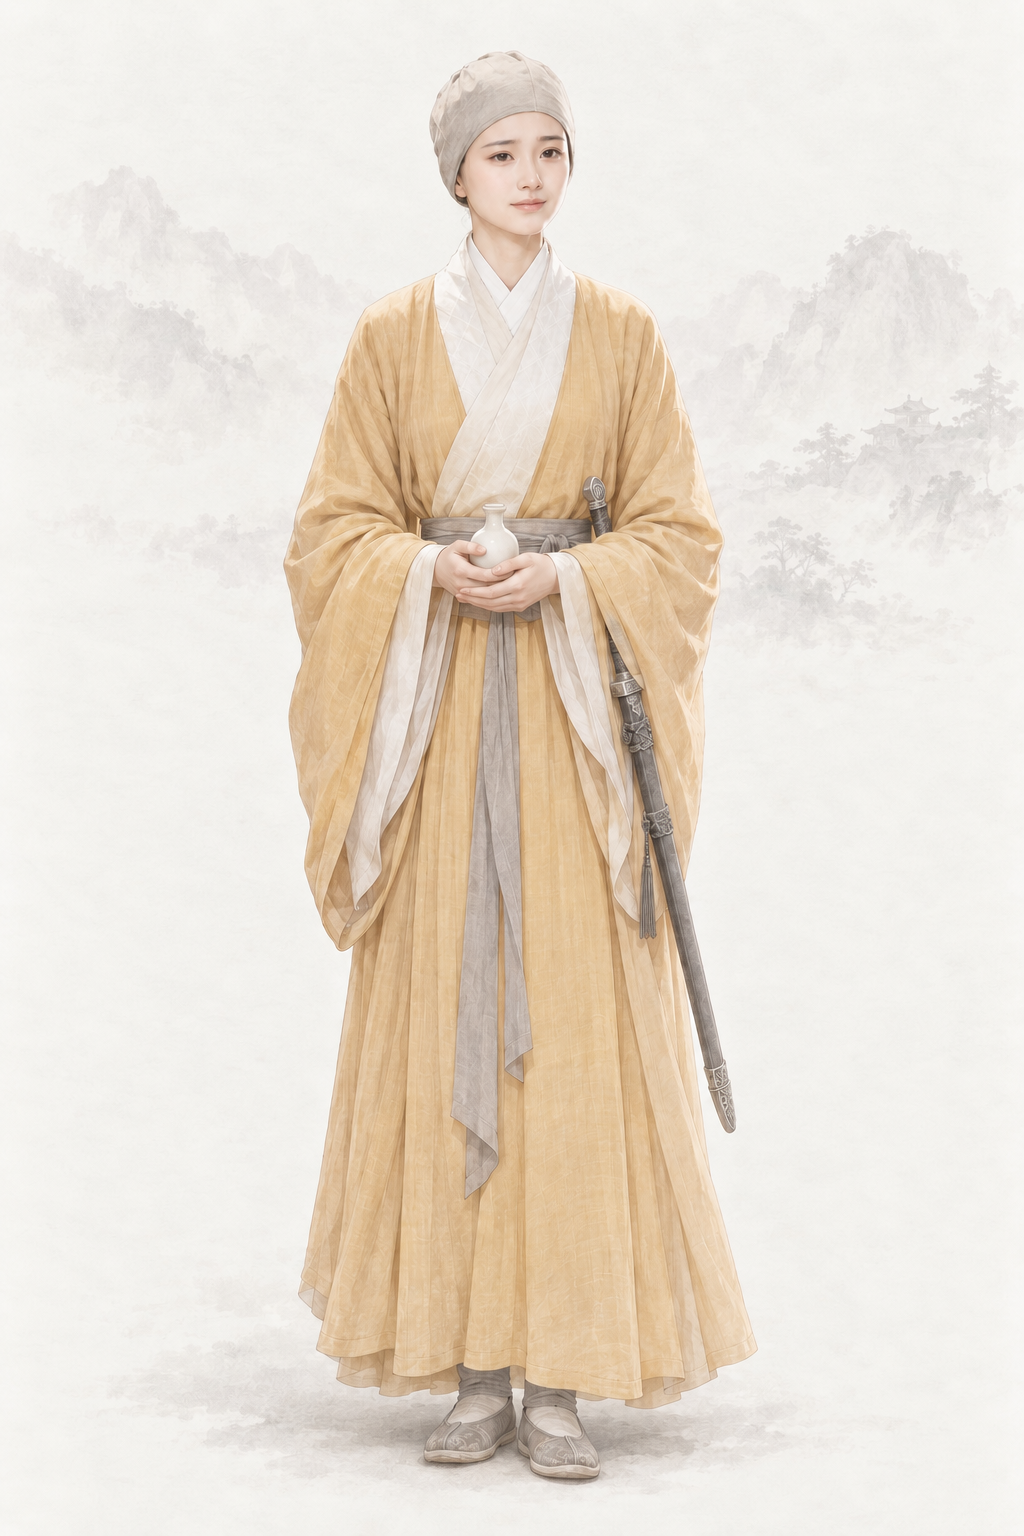
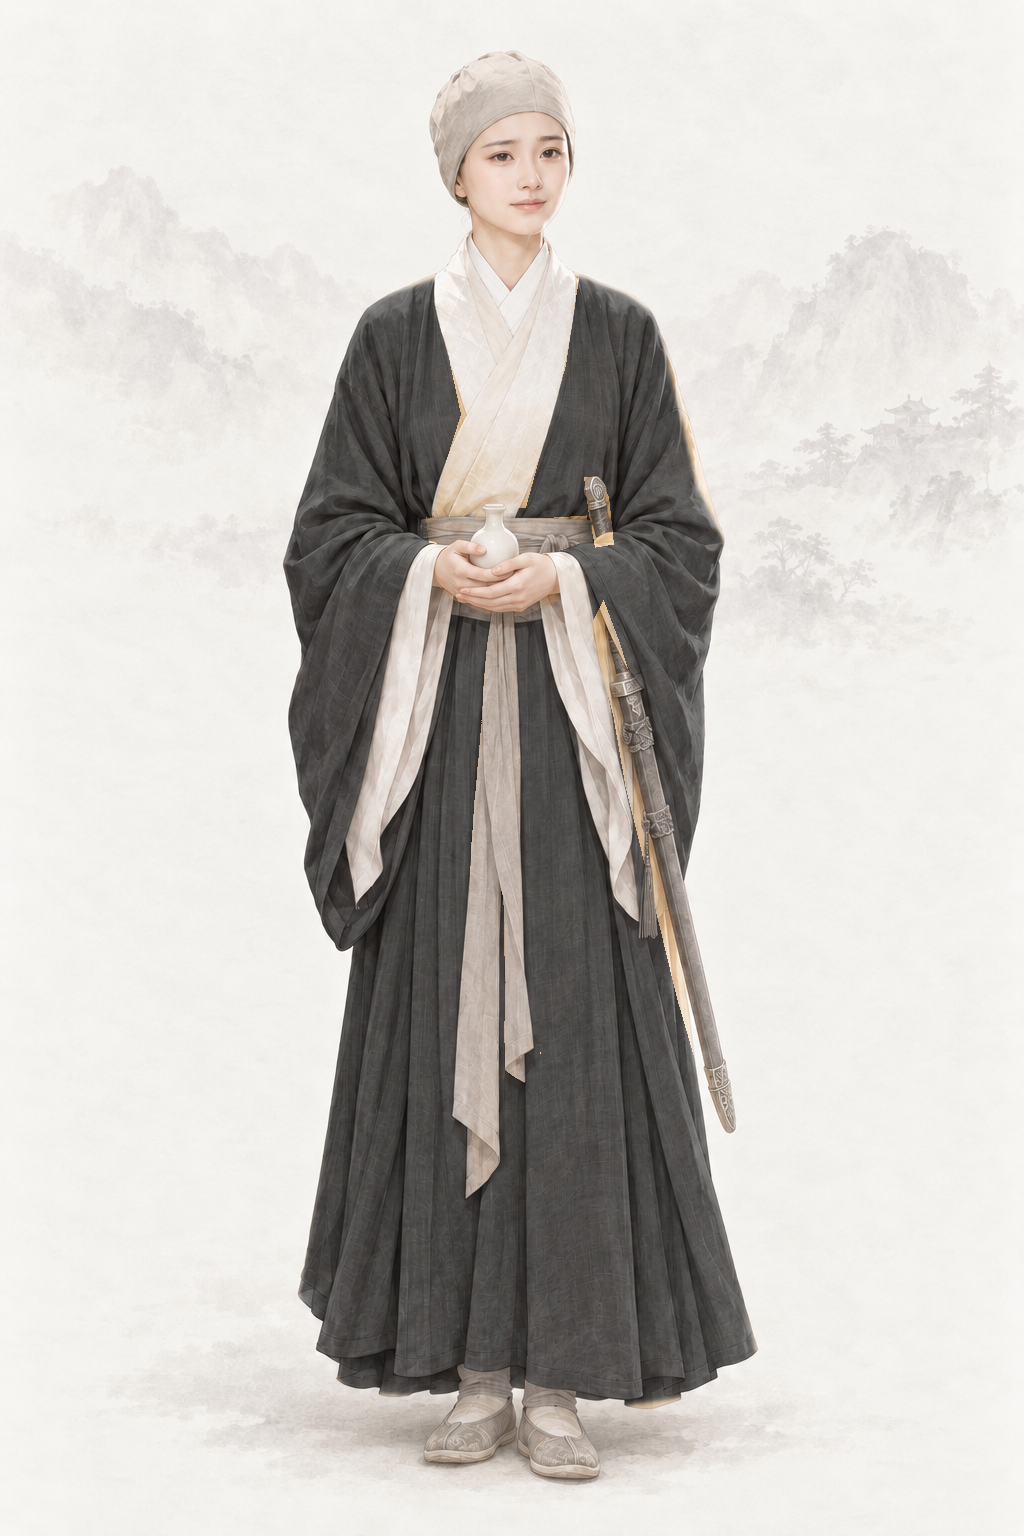
assets: AR-82 原著核对返修 仪琳杏黄外袍改深灰黑缁衣
仪琳杏黄外袍改深灰黑缁衣；原著摘句已同步提示词；蒙版外变化0像素。

Executed-By: Codex gpt-6.1-sol（AR-82）

Changed region(s): [[0.2812, 0.1562, 0.75, 0.9375]]

diff --git a/assets/default/prompts/characters/ch05-xiaoao/npc_yilin.md b/assets/default/prompts/characters/ch05-xiaoao/npc_yilin.md
@@ -35,6 +35,12 @@ classic_ref:
 
 # 仪琳 · 人物写实修正
 
+## AR-82 当前定稿要求
+
+只修改杏黄色外僧袍布料颜色为深灰黑缁衣，全部衣褶、袍形和材质原样保留。灰白僧帽、脸、白色内领与袖缘、双手、白瓷药瓶、灰腰带、腰侧长剑及灰鞋全部原样，不改变人物神情或姿势。
+
+以上为当前原著核对后的要求，覆盖下文旧版中与之冲突的服饰、器物、伤残、光线和体态描述。
+
 ## Gemini 提示词
 
 > 2026-10-02 AR-32 重出（8 号出图员，codex exec · image_gen）：主要角色参考经典造型加项目基线生成。上传顺序：第 1–2 张为 1996 TVB《笑傲江湖》仪琳剧照（yilin_1996_hemeitian_qq.jpg；sohu.jpg 裁去水印），最后两张为同性别画风基线（缩小版 JPEG）。参考图只借造型、气质与面部特征，画面按项目画风重绘、不复制照片或像素图。上一版保留在下一节作历史。
@@ -42,15 +48,15 @@ classic_ref:
 ```text
 生成一张 2:3 竖幅全身人物立绘：单人、单一视角、完整全身——头顶、双手、双脚和手中器物的两端都在画面内，四周留出自然空白；人物站姿自然，身体基本朝向正面，头部端正（不歪头、不仰不俯），镜头平视。
 【参考图】第 1–2 张参考图是该角色经典影视造型的剧照：借鉴其发型、服饰、配色、标志道具、气质和面部特征，让人一眼认出是这个角色；但必须重新绘制成项目画风，不要照片质感，不要照搬剧照的构图、光影、背景和姿势，也不要做成照片修图。最后两张是本项目画风基线：画风、用色、光线、质感和暖浅灰纸底加淡水墨背景以它们为准。
-【剧照借鉴要点】取剧照里的灰白布僧帽（把头发全包住）、杏黄色僧衣配白色交领、清秀温柔的五官和带点怯生生的神情；但要画成成年女子。姿势和构图按下文的全身立绘来画，不照搬剧照。
+【剧照借鉴要点】取剧照里的灰白布僧帽（把头发全包住）、深灰黑色缁衣配白色交领、清秀温柔的五官和带点怯生生的神情；但要画成成年女子。姿势和构图按下文的全身立绘来画，不照搬剧照。
 【画风】写实手绘古风人物插画，与本项目写实武侠角色立绘同一画风，像功力深厚的画师用细腻笔触画出的真实人物。手绘插画质感，不是 CG 渲染：不要过度光滑的皮肤、完美对称的五官、塑料高光、过度锐利的发丝；保留自然的笔触和细微不完美。皮肤有真实质感——细小毛孔、细纹、晒痕和自然的左右不对称，不磨皮、不油亮；头发是一缕缕自然的发丝和少量碎发；布料看得出经纬纹理、厚薄和自然垂坠的褶皱，带穿用过的轻微旧化，但完整不破烂；整体设色低饱和、沉稳；柔和的自然光从左上方照来，明暗过渡自然，不打舞台光、轮廓光或美颜柔光。不是照片，不是三维渲染，不是动漫或游戏 CG，也不是油画（没有厚涂笔触和画布纹理）。
 【背景】不透明的暖浅灰色纸底，只在远处有极淡的水墨远山和薄雾，大面积留白；人物与背景明暗分明、轮廓边缘干净完整（后续要自动抠图），水墨和纸纹只在背景里，不侵入人物和衣服；脚下只有很淡的一点接触阴影。
 【人物】仪琳，《笑傲江湖》中恒山派的年轻尼姑，衡阳救难之后随同门行走的时期。
 【年龄与体态】约二十岁的成年女尼，身形纤细但为成人比例（约七头身），体态端庄温柔。
-【经典造型】九十年代经典港剧里的仪琳：灰白布僧帽、杏黄色宽袖僧衣，双手捧着白瓷药瓶，腰佩恒山派长剑；清丽脱俗、纯真温柔，带一点羞涩——是秀美动人的成年女尼。
+【经典造型】九十年代经典港剧里的仪琳：灰白布僧帽、深灰黑色宽袖缁衣，双手捧着白瓷药瓶，腰佩恒山派长剑；清丽脱俗、纯真温柔，带一点羞涩——是秀美动人的成年女尼。
 【面容】按剧照：清秀的鹅蛋脸、下巴圆润；眉毛细长柔顺；一双清澈温柔的眼睛（自然大小），眼神纯净、带点羞怯与关切；鼻梁秀挺；嘴唇小巧、唇色淡粉；肤色白净；不施脂粉。清丽脱俗，但是成年人的五官，不是孩子气的脸。
 【发式】剃度出家，头戴一顶灰白色布僧帽，把头发全包住，帽下不露头发。
-【服饰】杏黄色宽袖僧衣（交领右衽，左襟压右襟），白色内领，腰系灰布带；灰布袜与僧鞋；衣服宽松，不显身形。
+【服饰】深灰黑色宽袖缁衣（交领右衽，左襟压右襟），白色内领，腰系灰布带；灰布袜与僧鞋；衣服宽松，不显身形。
 【道具】双手在腹前捧着一只小小的白瓷药瓶；腰侧佩一柄恒山派长剑（连鞘，素灰剑鞘）。
 【姿态与神情】端正站立，神情温婉虔诚。
 【不要】画面里不要任何文字、题款、印章、签名、水印、边框、分格或多视图；不要第二个人；不要幼态（童颜、娃娃脸、婴儿肥、儿童或少年身材、大头小身）；不要塑料感皮肤、磨皮美颜、网红脸（尖下巴大眼高鼻的模板脸）、过度对称、浓妆、偶像式打光、蜡像感；不要照片质感，不要像剧照照片、照片修图或拼贴，不要照搬剧照的背景、光影、构图和姿势；不要三维渲染或动漫大眼；不要歪头、斜镜头；不要多指、缺指（设定的伤残除外）、手与器物粘连或悬空；衣襟必须右衽（穿着者的左襟压在右襟上），不要左衽（设定为少数民族服制的除外），不要水平镜像；不要现代物品、发光特效、法阵或能量光。不要露出头发；不要童颜、娃娃脸、头大身小；不要浓妆、首饰；不要性感化；不要和岳灵珊同一张脸。
@@ -162,3 +168,8 @@ FINAL CHECK: one 仪琳 with distinct TEXT-DEFINED ORIGINAL FACE; ADOLESCENT MIN
 - 采用作者授权宽松自查；偏差如实记录，candidate不代表approved。
 - 源PNG通常为1024×1536 RGB；其他原生2:3尺寸如实登记，原字节保存，不裁切、重编码、放大或去除溯源。
 - 完整请求、实际参考哈希及旧版本备份见 `.agents/coord/portrait-generation/identity-20261001/por_npc_yilin__ch05_youth_base.prepared.json`。
+
+## 原著依据
+
+- 《笑傲江湖》三《救难》：“虽裹在一袭宽大缁衣之中”（https://xuges.com/WUXIA/jinyong/xajh/021.htm）
+- AR-82 返修约束：只修改杏黄色外僧袍布料颜色为深灰黑缁衣，全部衣褶、袍形和材质原样保留。灰白僧帽、脸、白色内领与袖缘、双手、白瓷药瓶、灰腰带、腰侧长剑及灰鞋全部原样，不改变人物神情或姿势。
